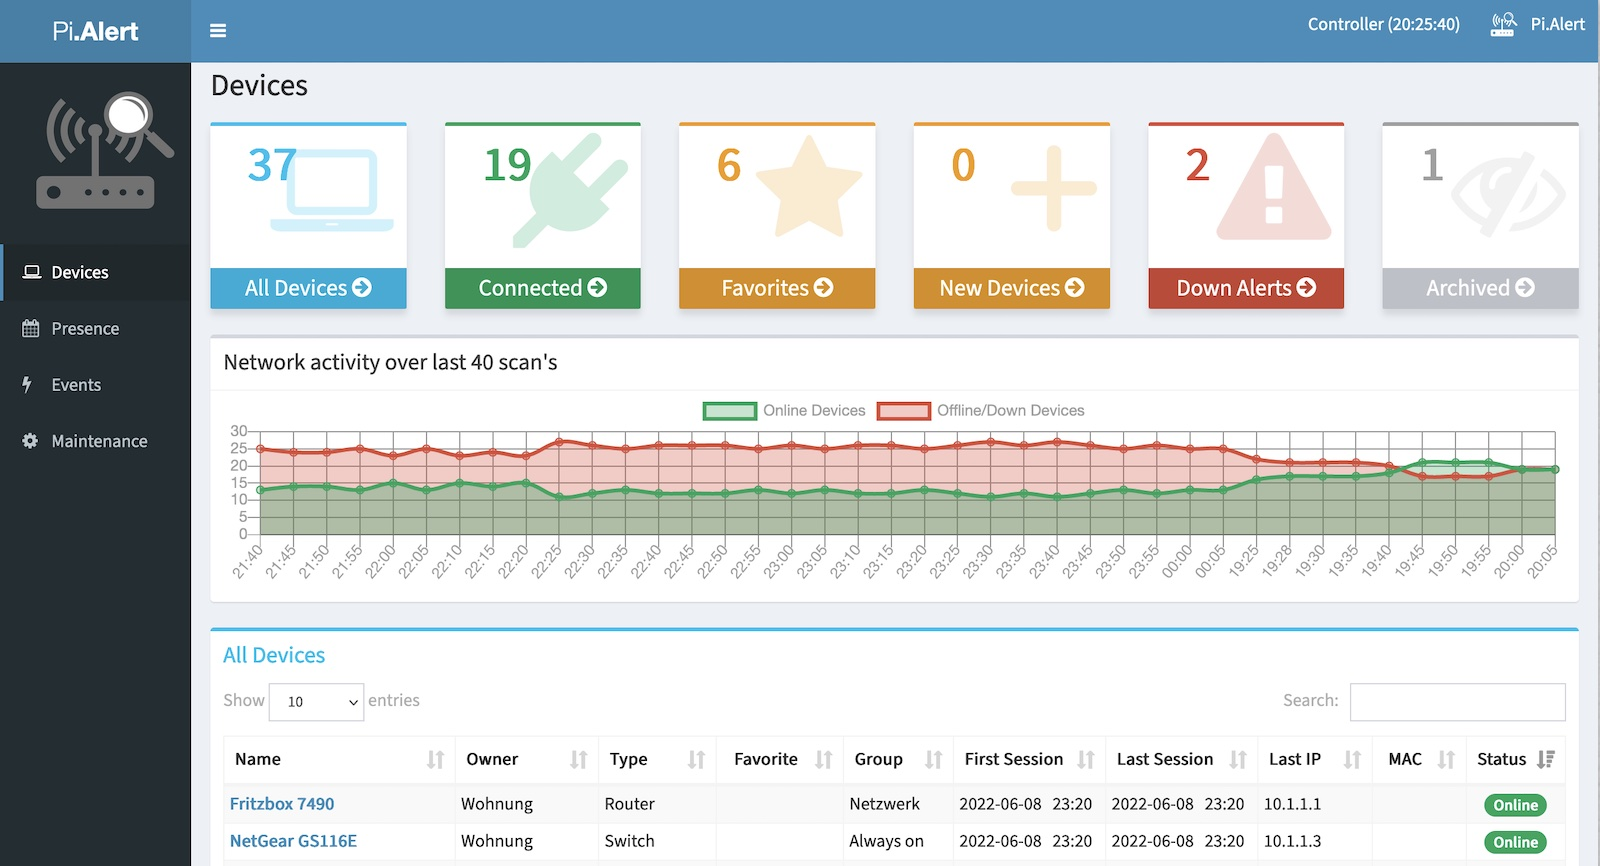
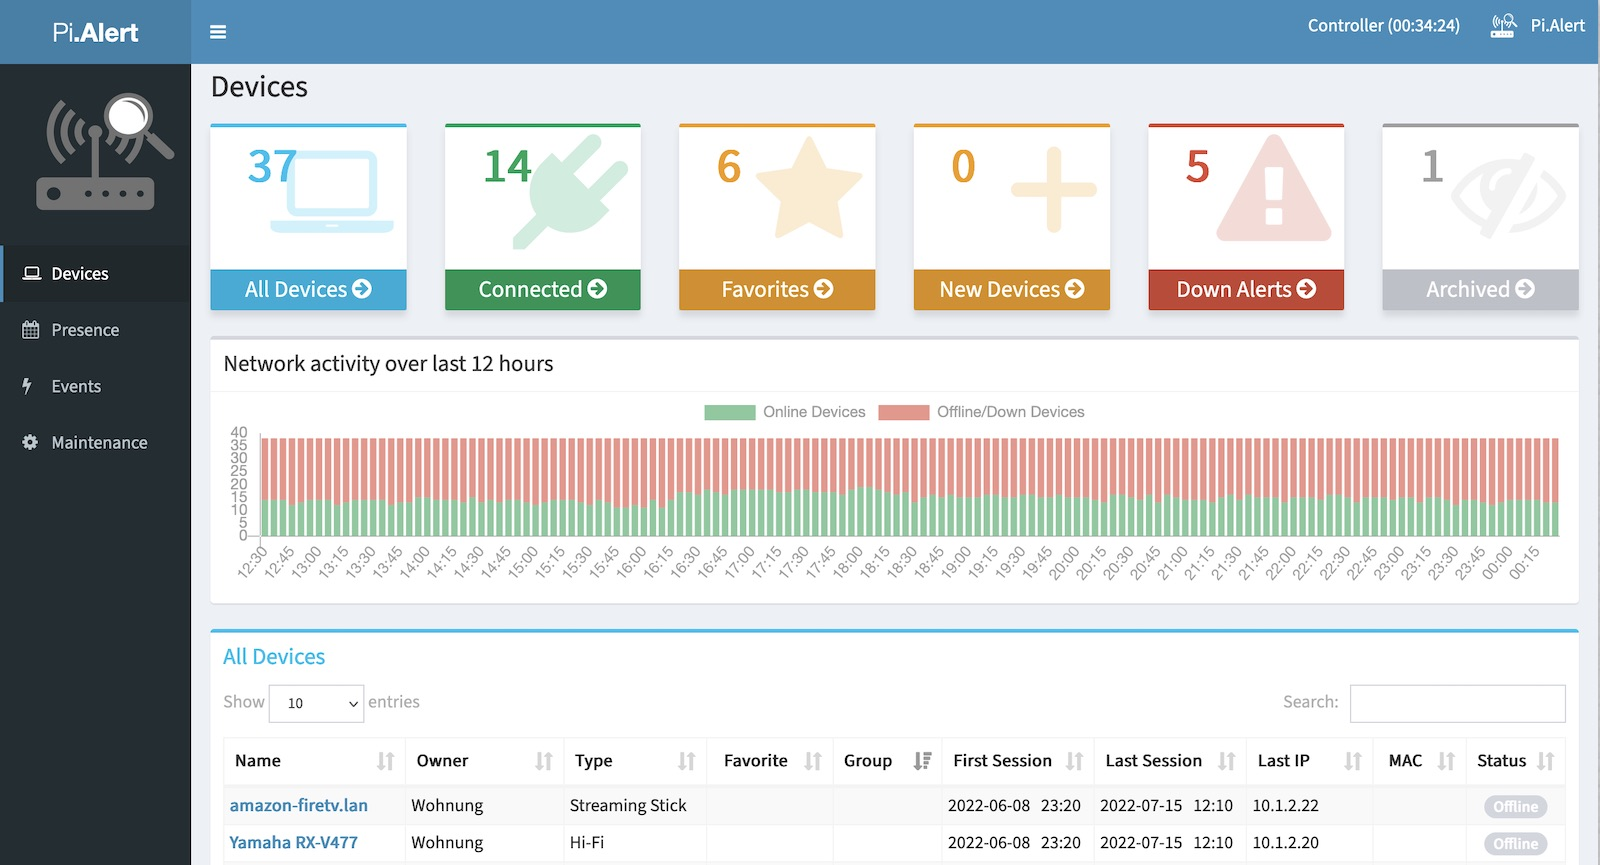
Update Graph
- Change graph
- Update screenshoots

diff --git a/front/js/graph_online_history.js b/front/js/graph_online_history.js
@@ -19,9 +19,6 @@ function pia_draw_graph_online_history(pia_js_graph_online_history_time, pia_js_
               borderColor: "#dd4b39",
               fill: true,
               backgroundColor: "rgba(222, 74, 56, .6)",
-              pointStyle: 'circle',
-              pointRadius: 3,
-              pointHoverRadius: 3
             }]
           },
           options: {
@@ -51,6 +48,9 @@ function pia_draw_graph_online_history(pia_js_graph_online_history_time, pia_js_
                     },
                     stacked: true,
                 }],
+            },
+            tooltips: {
+                mode: 'index'
             }
           }
         });
